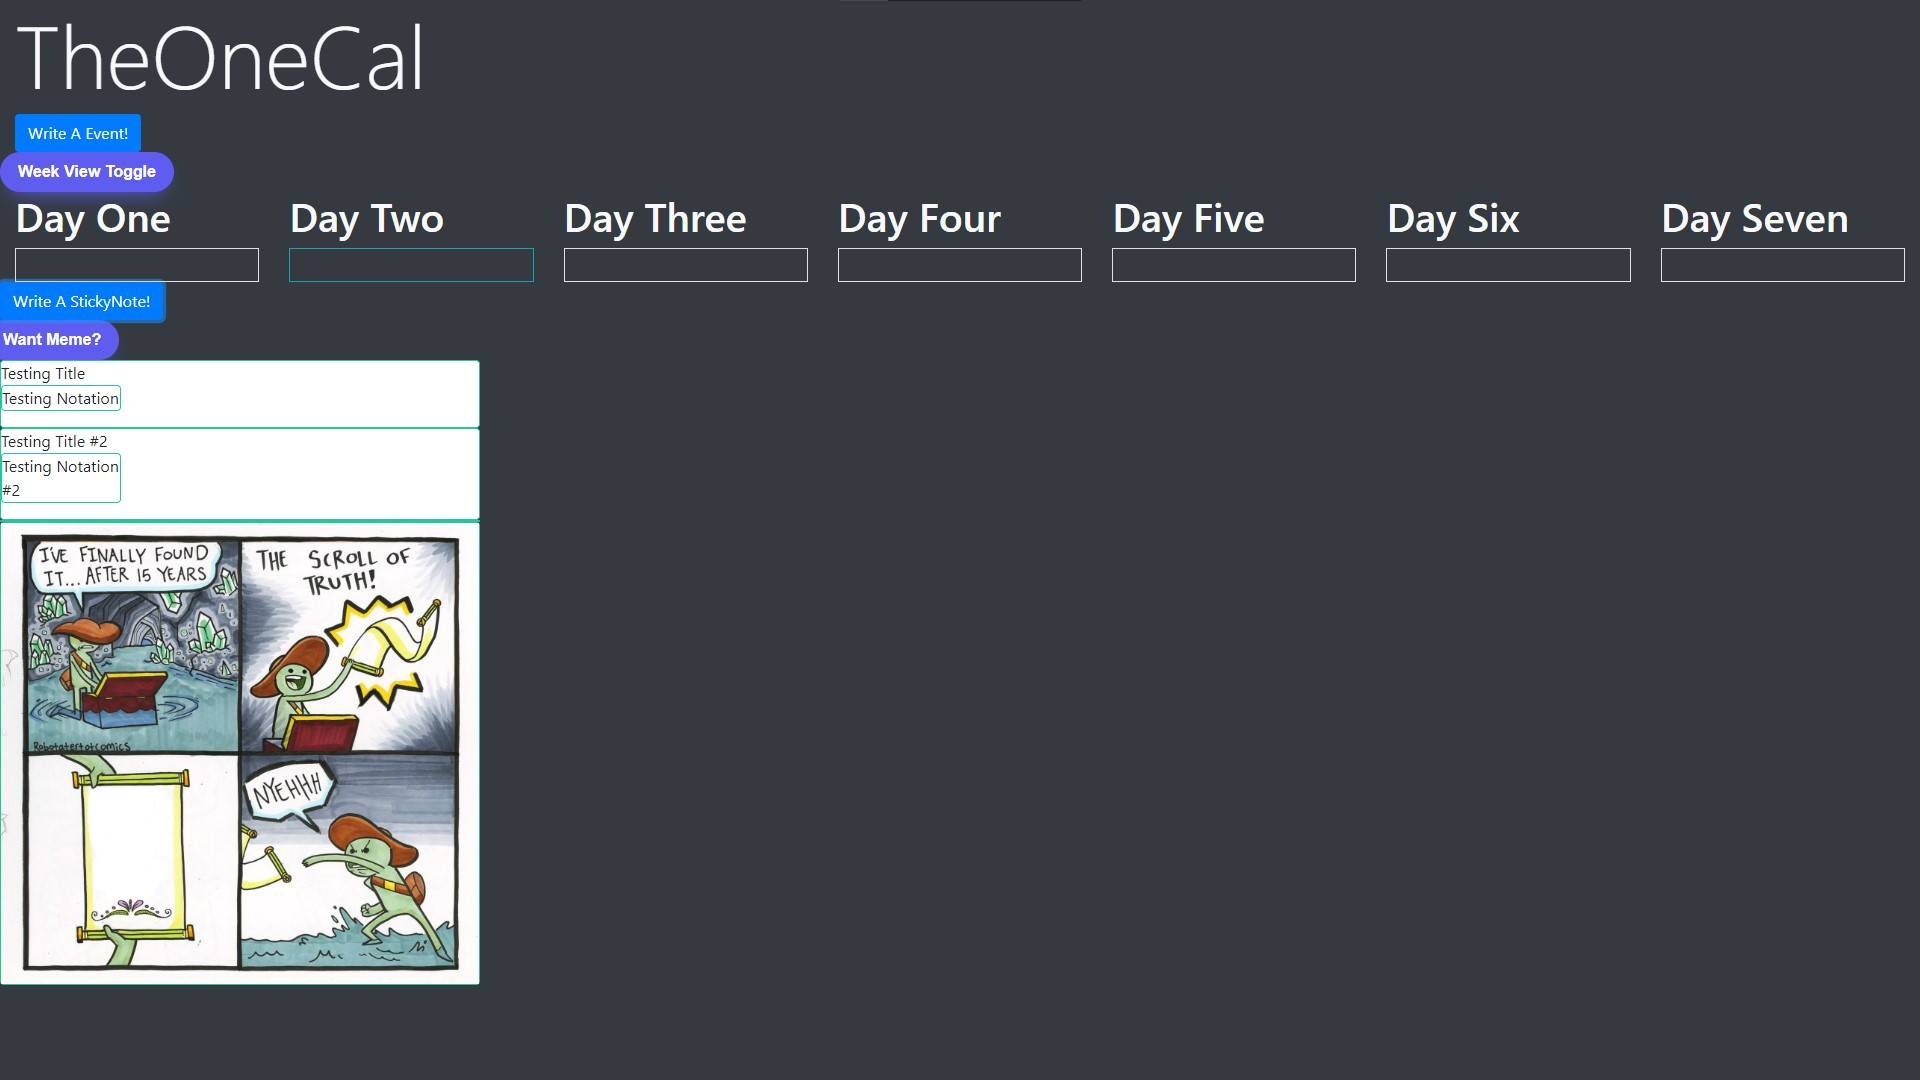
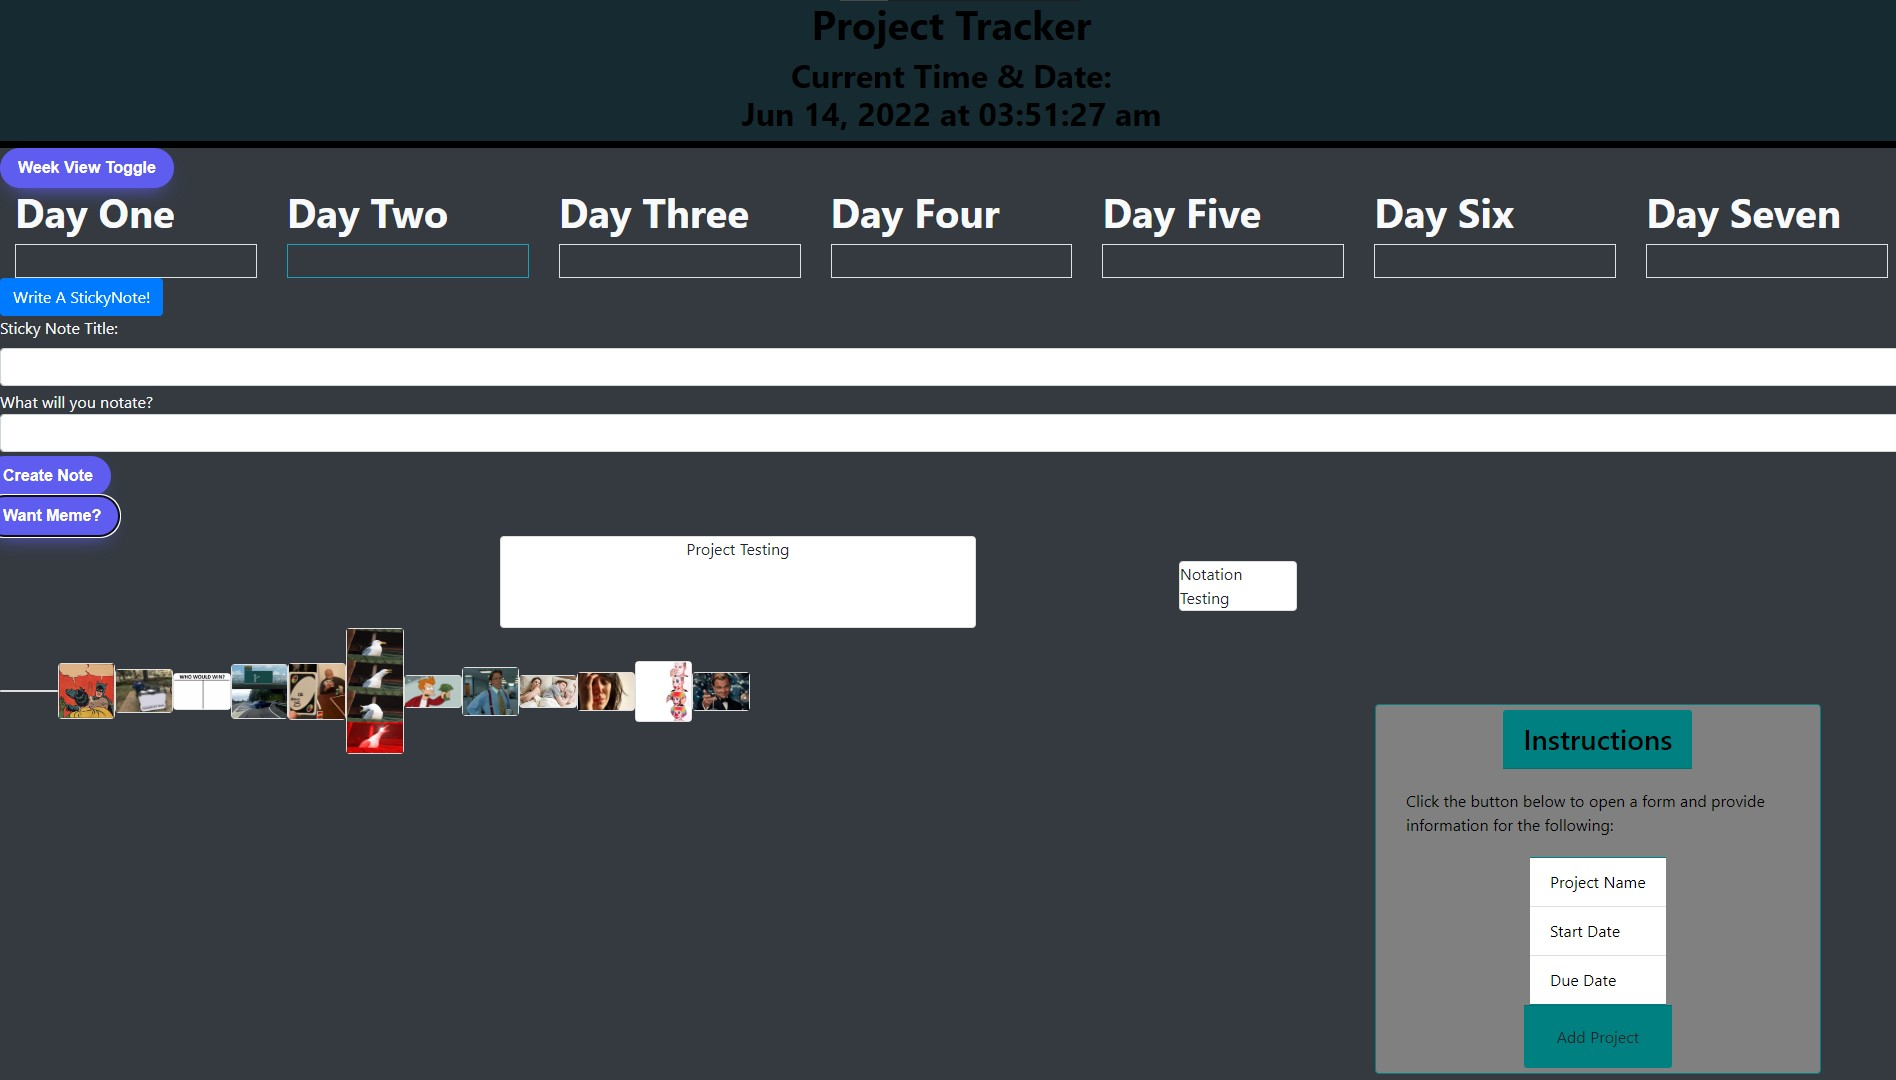
Added live time and date to header

diff --git a/index.html b/index.html
@@ -10,20 +10,23 @@
     <!--TODO-->
     <!--Google Fonts && Frontend-->
     <!--Calender Layout --Byron -->
-    <title>TheOneCal</title>
-    <link rel="stylesheet" href="https://cdn.jsdelivr.net/npm/bootstrap@4.3.1/dist/css/bootstrap.min.css"
-        integrity="sha384-ggOyR0iXCbMQv3Xipma34MD+dH/1fQ784/j6cY/iJTQUOhcWr7x9JvoRxT2MZw1T" crossorigin="anonymous">
+    <link rel="stylesheet" href="https://cdnjs.cloudflare.com/ajax/libs/twitter-bootstrap/4.5.0/css/bootstrap.min.css">
+    <link rel="stylesheet" href="https://code.jquery.com/ui/1.12.1/themes/base/jquery-ui.css">
     <link rel="stylesheet" type="text/css" href="./assets/css/style.css" />
     <!--BOOTSTRAP-->
     <script src="https://ajax.googleapis.com/ajax/libs/jquery/3.6.0/jquery.min.js"></script>
     <!--Jquery for faster loading times (Optimization)-->
+    <title>TheOneCal</title>
 </head>
 
 <body>
 
     <!--Bootstrap Styling-->
     <header class="title">
-        <h1 class="display-3">TheOneCal</h1>
+        <div class="container text-center">
+            <h1>Project Tracker</h1>
+            <h2>Current Time &amp; Date: <br /> <span id="time-display">00:00:00</span></h2>
+        </div>
     </header>
     <main class="min-vh-100 bg-dark">
         <div class="container-fluid">
@@ -117,7 +120,8 @@
 
         <!--NOTES DISPLAY DIV-->
         <div id="notesdisplay">
-            <button class="row button-34" id="memeCreate" class="meme" type="btn" onclick="createStickyMeme();">Want Meme?</button>
+            <button class="row button-34" id="memeCreate" class="meme" type="btn" onclick="createStickyMeme();">Want
+                Meme?</button>
 
             <!--CONTENT APPENDED IN JS-->
         </div>
@@ -195,26 +199,32 @@
 
 
     <!--NO HTML BEYOND THIS POINT -- SCRIPTS-->
-    <script src="https://cdnjs.cloudflare.com/ajax/libs/jquery/3.6.0/jquery.min.js"
-        integrity="sha512-894YE6QWD5I59HgZOGReFYm4dnWc1Qt5NtvYSaNcOP+u1T9qYdvdihz0PPSiiqn/+/3e7Jo4EaG7TubfWGUrMQ=="
-        crossorigin="anonymous" referrerpolicy="no-referrer"></script>
 
+    <script src="https://cdnjs.cloudflare.com/ajax/libs/jquery/3.5.1/jquery.min.js"></script>
+    <script src="https://cdnjs.cloudflare.com/ajax/libs/popper.js/1.16.1/umd/popper.min.js"></script>
+    <script src="https://cdnjs.cloudflare.com/ajax/libs/twitter-bootstrap/4.5.0/js/bootstrap.min.js"></script>
+    <script src="https://cdnjs.cloudflare.com/ajax/libs/moment.js/2.27.0/moment.min.js"></script>
+    <script src="https://code.jquery.com/ui/1.12.0/jquery-ui.min.js"></script>
+
+    <!-- <script src="https://cdnjs.cloudflare.com/ajax/libs/jquery/3.6.0/jquery.min.js"
+        integrity="sha512-894YE6QWD5I59HgZOGReFYm4dnWc1Qt5NtvYSaNcOP+u1T9qYdvdihz0PPSiiqn/+/3e7Jo4EaG7TubfWGUrMQ=="
+        crossorigin="anonymous" referrerpolicy="no-referrer"></script> -->
     <!--Jquery-->
-    <script src="https://cdn.jsdelivr.net/npm/popper.js@1.14.7/dist/umd/popper.min.js"
+    <!-- <script src="https://cdn.jsdelivr.net/npm/popper.js@1.14.7/dist/umd/popper.min.js"
         integrity="sha384-UO2eT0CpHqdSJQ6hJty5KVphtPhzWj9WO1clHTMGa3JDZwrnQq4sF86dIHNDz0W1"
-        crossorigin="anonymous"></script>
+        crossorigin="anonymous"></script> -->
     <!--popper-->
-    <script src="https://cdn.jsdelivr.net/npm/bootstrap@4.3.1/dist/js/bootstrap.min.js"
+    <!-- <script src="https://cdn.jsdelivr.net/npm/bootstrap@4.3.1/dist/js/bootstrap.min.js"
         integrity="sha384-JjSmVgyd0p3pXB1rRibZUAYoIIy6OrQ6VrjIEaFf/nJGzIxFDsf4x0xIM+B07jRM"
-        crossorigin="anonymous"></script>
+        crossorigin="anonymous"></script> -->
     <!--Bootstrap-->
-    <script src="https://cdnjs.cloudflare.com/ajax/libs/moment.js/2.29.3/moment-with-locales.min.js"
+    <!-- <script src="https://cdnjs.cloudflare.com/ajax/libs/moment.js/2.29.3/moment-with-locales.min.js"
         integrity="sha512-vFABRuf5oGUaztndx4KoAEUVQnOvAIFs59y4tO0DILGWhQiFnFHiR+ZJfxLDyJlXgeut9Z07Svuvm+1Jv89w5g=="
         crossorigin="anonymous" referrerpolicy="no-referrer"></script>
     <script src="https://ajax.googleapis.com/ajax/libs/jquery/3.1.1/jquery.min.js">
     </script>
     <script src="https://ajax.googleapis.com/ajax/libs/jqueryui/1.12.1/jquery-ui.min.js">
-    </script>
+    </script> -->
     <!--Moment-->
     <script src="./assets/js/script.js"></script>
     <script src="./assets/js/apis.js"></script>

diff --git a/assets/js/script.js b/assets/js/script.js
@@ -11,13 +11,13 @@ var eventDate = []
 var eventStartTime = []
 var eventEndTime = []
 /* ------------ [1. toggle (Hidden/NotHidden Function)] ------------ */
-// var timeDisplayEl = $('#time-display');
-// var projectDisplayEl = $('#project-display');
-// var projectModalEl = $('#project-modal');
-// var projectFormEl = $('#project-form');
-// var eventNameInputEl = $('#project-name-input');
-// var startDateInputEl = $('#hourly-rate-input');
-// var dueDateInputEl = $('#due-date-input');
+var timeDisplayEl = $('#time-display');
+var projectDisplayEl = $('#project-display');
+var projectModalEl = $('#project-modal');
+var projectFormEl = $('#project-form');
+var eventNameInputEl = $('#project-name-input');
+var startDateInputEl = $('#start-date-input');
+var dueDateInputEl = $('#due-date-input');
 
 /* STUFF */
 var w1displayEl = $('#1w');
@@ -39,6 +39,14 @@ var memesDisplayEl = $("#memesdisplay")
 // var week5d = moment().add(3, 'days').format("dddd, DD");
 // var week6d = moment().add(4, 'days').format("dddd, DD");
 // var week7d = moment().add(5, 'days').format("dddd, DD");
+
+// Displays time
+function displayTime() {
+  var rightNow = moment().format('MMM DD, YYYY [at] hh:mm:ss a');
+  timeDisplayEl.text(rightNow);
+}
+
+setInterval(displayTime, 1000);
 
 function toggleWeek() {
   var toggleWeekEl = document.getElementById("toggleWeek");
@@ -385,6 +393,7 @@ function createAnEvent() {
   var N4 = eventEndTime.push("00:01");
   var N2 = eventDescription.push(eventDescriptionEl);
   console.log(eventDescription);
+
 
   // var eventDescription = []
   // var eventDate = []

diff --git a/assets/css/style.css b/assets/css/style.css
@@ -20,17 +20,22 @@
   border: 0;
 }
 
+h1, h2 {
+  font-weight: 700;
+}
+
+
 .title {
-text-align: center;
-background-color: transparent;
-color: black;
-border-radius: 0;
-border-bottom: 7.5px solid black;
-background-color: rgb(21, 42, 49);
+  text-align: center;
+  background-color: transparent;
+  color: black;
+  border-radius: 0;
+  border-bottom: 7.5px solid black;
+  background-color: rgb(21, 42, 49);
 }
 
 .custom-card {
-  display:flex;
+  display: flex;
   justify-content: space-between;
   align-items: center;
   left: 500px;
@@ -44,7 +49,7 @@ div#memesdisplay {
 }
 
 .memesdisplay {
-  display:flex;
+  display: flex;
   flex-wrap: wrap;
   justify-content: space-between;
   width: 350px;
@@ -63,7 +68,8 @@ div#memesdisplay {
   bottom: 50px;
 }
 
-.card-header, .card-footer {
+.card-header,
+.card-footer {
   background: teal;
 }
 
